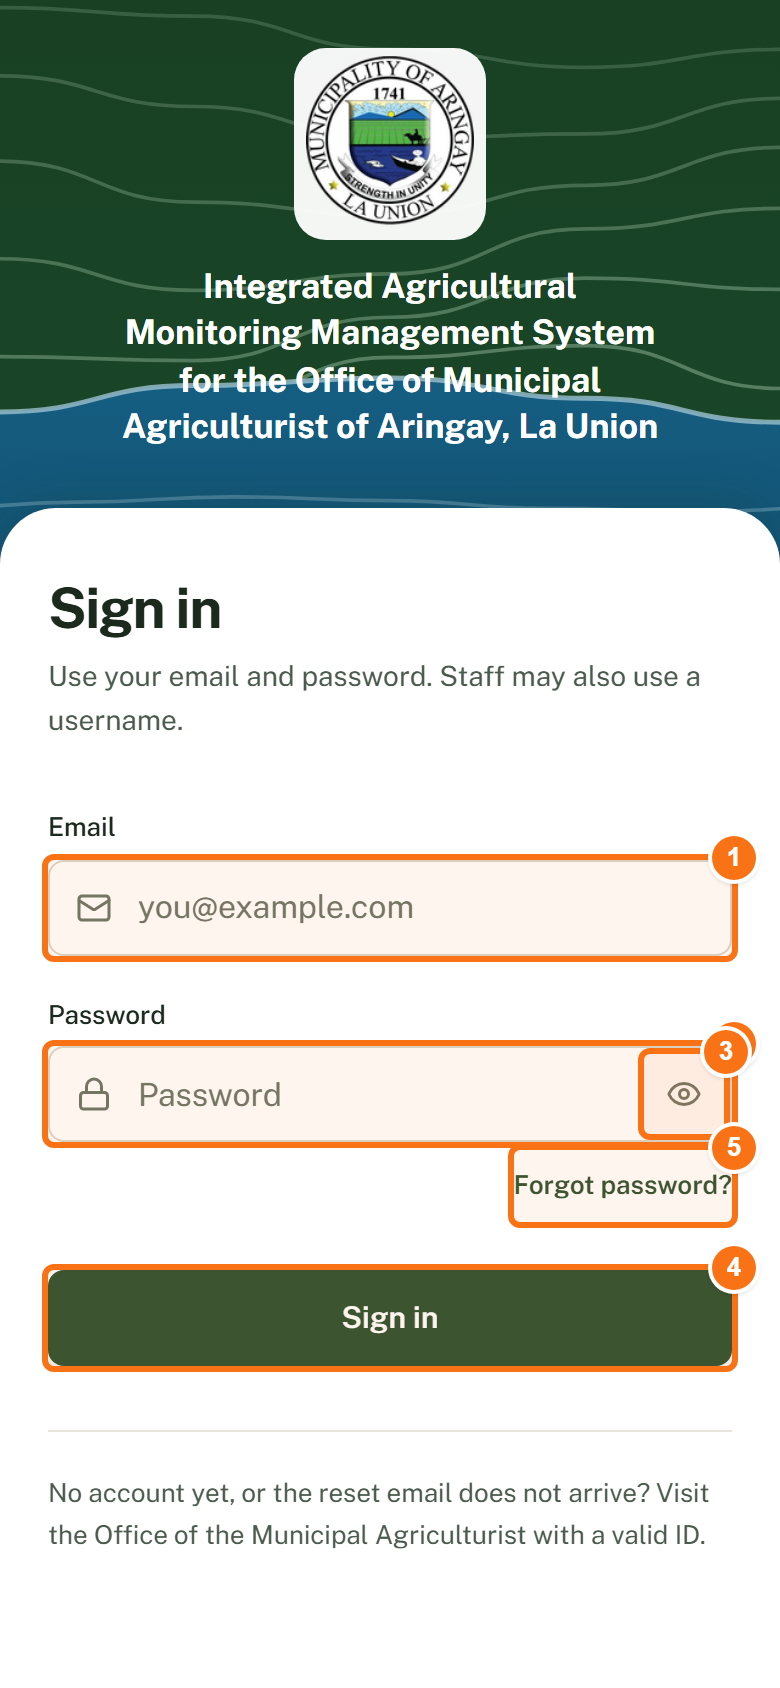
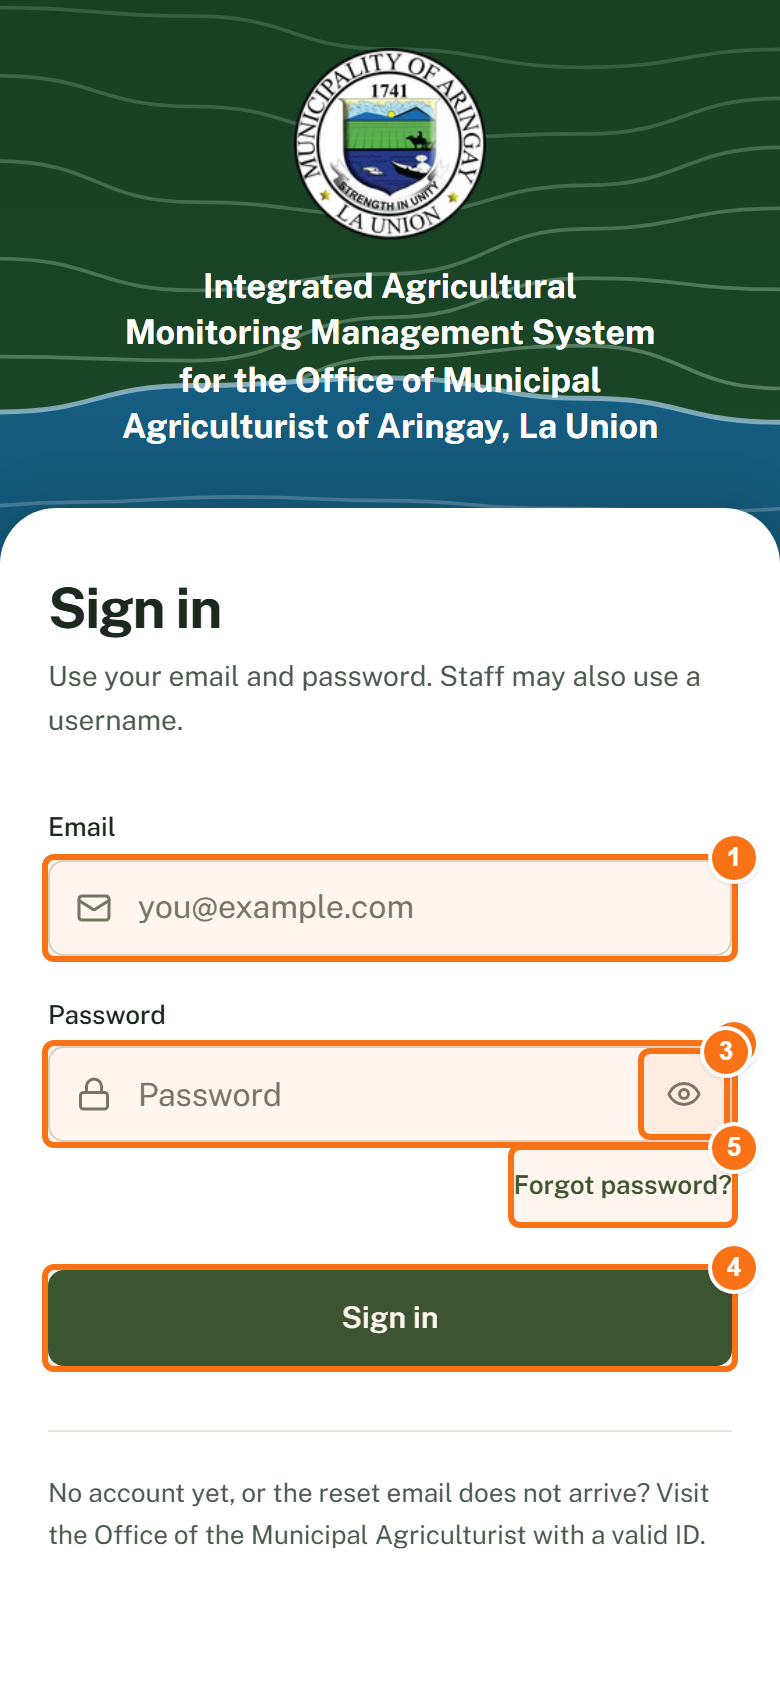
Header with account type and clock, round seal, reset page goes to sign-in
- Top bar: the account type shows under the name, and today's date and a live time fill the empty space.
- The seal shows by itself, round, with no white or coloured box, on the sign-in page and inside the system.
- Reset password: "Type it again" is now "Confirm password". After saving, on a used or expired link, and from a
  "Check your email" tab left open, the page goes to sign-in. A new endpoint checks a link without using it up.
- The two sign-in pictures in the User Manual are retaken.

Changed region(s): [[0.3692, 0.0308, 0.6462, 0.154]]

diff --git a/oma-frontend/src/pages/Auth/ResetPasswordPage.jsx b/oma-frontend/src/pages/Auth/ResetPasswordPage.jsx
@@ -1,13 +1,13 @@
-import { useEffect, useState } from 'react'
-import { Link, useLocation, useNavigate } from 'react-router-dom'
-import { Eye, EyeOff, Loader2, XCircle } from 'lucide-react'
+import { useCallback, useEffect, useState } from 'react'
+import { useLocation, useNavigate } from 'react-router-dom'
+import { Eye, EyeOff, Loader2 } from 'lucide-react'
 import api from '../../api/axiosInstance.js'
 import AuthCard from '../../components/UI/AuthCard.jsx'
 import Button from '../../components/UI/Button.jsx'
 import PasswordRequirementChecklist from '../../components/UI/PasswordRequirementChecklist.jsx'
 import { passwordMeetsRules } from '../../utils/passwordRules.js'
 import { useAuth } from '../../context/AuthContext.jsx'
-import { isDeadLink, readResetLink, requestErrorText } from './passwordReset.js'
+import { DEAD_LINK_NOTICE, PASSWORD_SAVED_KEY, isDeadLink, readResetLink, requestErrorText } from './passwordReset.js'
 
 const FIELD =
   'h-12 w-full rounded-[var(--radius-sm)] border border-border-strong px-3.5 text-[16px] focus:border-primary focus:outline-none focus:ring-2 focus:ring-primary/25'
@@ -18,16 +18,36 @@ function ResetPasswordPage() {
   const { user, logout } = useAuth()
   // Read once, then taken out of the address bar so the token does not stay in the browser's history.
   const [link] = useState(() => readResetLink(location.hash))
-  const [dead, setDead] = useState(!link)
+  const [checking, setChecking] = useState(true)
   const [password, setPassword] = useState('')
   const [confirm, setConfirm] = useState('')
   const [show, setShow] = useState(false)
   const [loading, setLoading] = useState(false)
   const [error, setError] = useState('')
 
+  // `replace`: the Back button must not return to a finished reset.
+  const goToSignIn = useCallback((notice) => {
+    try { sessionStorage.setItem('omag_login_notice', notice) } catch { /* no storage: just no note */ }
+    navigate('/login', { replace: true })
+  }, [navigate])
+
   useEffect(() => {
     if (window.location.hash) window.history.replaceState(window.history.state, '', window.location.pathname)
   }, [])
+
+  // A link that is already used (the password was saved), expired or incomplete goes straight to sign-in.
+  useEffect(() => {
+    let left = false
+    const check = link ? api.post('/accounts/reset-password/check/', link) : Promise.reject(new Error('no link'))
+    check
+      .then(() => { if (!left) setChecking(false) })
+      .catch((err) => {
+        if (left) return
+        if (!link || isDeadLink(err)) goToSignIn(DEAD_LINK_NOTICE)
+        else setChecking(false)          // the server could not be asked: show the form, saving checks again
+      })
+    return () => { left = true }
+  }, [link, goToSignIn])
 
   const save = async (e) => {
     e.preventDefault()
@@ -39,30 +59,26 @@ function ResetPasswordPage() {
     setLoading(true)
     try {
       const { data } = await api.post('/accounts/reset-password/', { ...link, new_password: password, confirm_new_password: confirm })
-      try { sessionStorage.setItem('omag_login_notice', data.detail) } catch { /* no storage: just no note */ }
       // A session left open in this browser belongs to the old password.
       if (user) await logout()
-      navigate('/login', { replace: true })
+      try { localStorage.setItem(PASSWORD_SAVED_KEY, String(Date.now())) } catch { /* other tabs just stay as they are */ }
+      goToSignIn(data.detail)
     } catch (err) {
-      if (isDeadLink(err)) setDead(true)
-      else setError(requestErrorText(err))
+      if (isDeadLink(err)) {
+        goToSignIn(DEAD_LINK_NOTICE)
+        return
+      }
+      setError(requestErrorText(err))
       setLoading(false)
     }
   }
 
-  if (dead) {
+  if (checking) {
     return (
       <AuthCard>
-        <div className="text-center">
-          <XCircle className="mx-auto mb-3 h-10 w-10 text-rose-500" aria-hidden="true" />
-          <h1 className="text-[18px] font-bold text-text-primary">This link no longer works</h1>
-          <p className="mt-2 text-[14px] leading-relaxed text-text-secondary">
-            A reset link works once, for 30 minutes. Ask for a new one.
-          </p>
-          <Button type="button" variant="primary" className="mt-5 w-full" onClick={() => navigate('/forgot-password')}>
-            Send a new link
-          </Button>
-          <Link to="/login" className="mt-4 inline-block text-[13px] font-semibold text-primary hover:underline">Back to sign in</Link>
+        <div role="status" className="flex flex-col items-center gap-3 py-4 text-center">
+          <Loader2 className="h-7 w-7 animate-spin text-primary" aria-hidden="true" />
+          <p className="text-[14px] text-text-secondary">Checking your link…</p>
         </div>
       </AuthCard>
     )
@@ -100,7 +116,7 @@ function ResetPasswordPage() {
           <PasswordRequirementChecklist password={password} />
         </div>
 
-        <label htmlFor="reset-confirm" className="mb-1.5 mt-4 block text-[13px] font-medium text-text-primary">Type it again</label>
+        <label htmlFor="reset-confirm" className="mb-1.5 mt-4 block text-[13px] font-medium text-text-primary">Confirm password</label>
         <input
           id="reset-confirm"
           type={show ? 'text' : 'password'}

diff --git a/oma-frontend/src/components/Layout/Navbar.jsx b/oma-frontend/src/components/Layout/Navbar.jsx
@@ -2,24 +2,23 @@ import { useState, useRef, useEffect } from 'react'
 import { ChevronDown, CircleHelp, History, LogOut, Menu, BookOpen } from 'lucide-react'
 import { Link, useNavigate } from 'react-router-dom'
 import { useAuth } from '../../context/AuthContext.jsx'
-import { formatDate } from '../../utils/dateFormat.js'
 import ConfirmDialog from '../UI/ConfirmDialog.jsx'
 import NotificationBell from './NotificationBell.jsx'
+import HeaderClock from './HeaderClock.jsx'
+import { accountTypeLabel } from './headerAccount.js'
 
 
 function Navbar({ onToggleSidebar, isCollapsed }) {
   const navigate = useNavigate()
-  const { user, logout, isFisherfolk, isFarmer, isOrg, orgType } = useAuth()
+  const { user, logout, isFisherfolk, isFarmer, isOrg } = useAuth()
   const ownAccount = isFisherfolk || isFarmer || isOrg   // citizen accounts that use the Admin pages for their own records
   // Fisherfolk accounts have their own profile/help pages (staff /profile and /help are staff-only). The User Manual is /manual for everyone.
   const profilePath = ownAccount ? '/my-profile' : '/profile'
   const helpPath = ownAccount ? '/my-help' : '/help'
-  const roleLabel = isFisherfolk ? 'Fisherfolk' : isFarmer ? 'Farmer'
-    : isOrg ? (orgType === 'FISHERFOLK_ORG' ? 'Fisherfolk Organization' : 'Farmers Organization') : user?.role?.toLowerCase()
+  const roleLabel = accountTypeLabel(user)
   const [dropdownOpen, setDropdownOpen] = useState(false)
   const [showLogoutConfirm, setShowLogoutConfirm] = useState(false)
   const dropdownRef = useRef(null)
-  const today = new Date()
 
   useEffect(() => {
     function handleClickOutside(e) {
@@ -45,7 +44,7 @@ function Navbar({ onToggleSidebar, isCollapsed }) {
         className={`h-14 bg-white border-b border-border shadow-sm fixed top-0 right-0 z-30 flex items-center justify-between px-4 left-0 ${isCollapsed ? 'md:left-16' : 'md:left-[248px]'}`}
         style={{ transition: 'left 300ms ease-in-out' }}
       >
-        {/* Left: hamburger */}
+        {/* Left: hamburger, then the date and time */}
         <div className="flex min-w-0 items-center gap-3">
           <button
             className="press-scale shrink-0 w-9 h-9 flex items-center justify-center rounded-lg text-text-primary hover:bg-surface-2 transition-colors"
@@ -55,6 +54,7 @@ function Navbar({ onToggleSidebar, isCollapsed }) {
           >
             <Menu size={20} aria-hidden="true" />
           </button>
+          <HeaderClock />
         </div>
 
         {/* Right: notifications + user dropdown */}
@@ -81,7 +81,7 @@ function Navbar({ onToggleSidebar, isCollapsed }) {
               <p className="text-[13px] font-medium text-text-primary leading-tight">
                 {user?.full_name || user?.email || 'User'}
               </p>
-              <p className="text-[11px] text-text-muted leading-tight">{formatDate(today)}</p>
+              <p className="text-[11px] text-text-muted leading-tight">{roleLabel}</p>
             </div>
           </Link>
           <button
@@ -105,7 +105,7 @@ function Navbar({ onToggleSidebar, isCollapsed }) {
                 </div>
                 <div className="min-w-0">
                   <p className="text-[13px] font-medium text-text-primary leading-tight truncate">{user?.full_name || user?.email}</p>
-                  <p className="text-[11px] text-text-muted leading-tight capitalize">{roleLabel}</p>
+                  <p className="text-[11px] text-text-muted leading-tight">{roleLabel}</p>
                 </div>
               </div>
 

diff --git a/oma-frontend/src/pages/Auth/ForgotPasswordPage.jsx b/oma-frontend/src/pages/Auth/ForgotPasswordPage.jsx
@@ -1,20 +1,33 @@
-import { useState } from 'react'
-import { Link, useLocation } from 'react-router-dom'
+import { useEffect, useState } from 'react'
+import { Link, useLocation, useNavigate } from 'react-router-dom'
 import { ArrowLeft, Loader2, MailCheck } from 'lucide-react'
 import api from '../../api/axiosInstance.js'
 import AuthCard from '../../components/UI/AuthCard.jsx'
 import Button from '../../components/UI/Button.jsx'
 import EmailInput from '../../components/UI/EmailInput.jsx'
-import { requestErrorText } from './passwordReset.js'
+import { PASSWORD_SAVED_KEY, requestErrorText } from './passwordReset.js'
 
 const BACK = 'mt-5 flex min-h-10 items-center justify-center gap-1.5 text-[13px] font-semibold text-primary hover:underline'
 
 function ForgotPasswordPage() {
   const location = useLocation()
+  const navigate = useNavigate()
   const [email, setEmail] = useState(location.state?.email || '')
   const [sentTo, setSentTo] = useState('')
   const [loading, setLoading] = useState(false)
   const [error, setError] = useState('')
+
+  // The e-mailed link usually opens in another tab. Once the new password is saved there, this tab moves to sign-in too.
+  useEffect(() => {
+    if (!sentTo) return undefined
+    const onSaved = (event) => {
+      if (event.key !== PASSWORD_SAVED_KEY || !event.newValue) return
+      try { sessionStorage.setItem('omag_login_notice', 'Your password has been changed. Sign in with your new password.') } catch { /* no note */ }
+      navigate('/login', { replace: true })
+    }
+    window.addEventListener('storage', onSaved)
+    return () => window.removeEventListener('storage', onSaved)
+  }, [sentTo, navigate])
 
   const send = async (e) => {
     e.preventDefault()

diff --git a/oma-frontend/src/components/Layout/StaffPhoneShell.jsx b/oma-frontend/src/components/Layout/StaffPhoneShell.jsx
@@ -3,6 +3,7 @@ import { ChevronRight, CircleHelp, ClipboardList, Ellipsis, BookOpen, HandHeart,
 import { useLocation, useNavigate } from 'react-router-dom'
 import { useAuth } from '../../context/AuthContext.jsx'
 import omagLogo from '../../assets/LOGO OMAg-small.png'
+import { accountTypeLabel } from './headerAccount.js'
 import ConfirmDialog from '../UI/ConfirmDialog.jsx'
 import NotificationBell from './NotificationBell.jsx'
 import { ADMIN_GROUP, DASHBOARD_ITEM, DISASTER_GROUP, GROUPS, REPORTS_GROUP, isItemActive } from './Sidebar.jsx'
@@ -104,7 +105,7 @@ function AccountMenu({ onLogout }) {
   const { user } = useAuth()
   const [open, setOpen] = useState(false)
   const initial = (user?.full_name || user?.email || 'U').charAt(0).toUpperCase()
-  const role = user?.role === 'ADMIN' ? 'Administrator' : 'Focal Person'
+  const role = accountTypeLabel(user)
 
   useEffect(() => {
     if (!open) return undefined
@@ -195,9 +196,7 @@ export default function StaffPhoneShell({ title, action, children }) {
     <div className="min-h-screen bg-white">
       <header className="sticky top-0 z-30 border-b border-border bg-white">
         <div className="flex h-14 items-center gap-2.5 px-4">
-          <span className="flex h-11 w-11 shrink-0 items-center justify-center overflow-hidden rounded-[10px] bg-nav-logo">
-            <img src={omagLogo} alt="OMAg Aringay seal" className="h-full w-full object-cover" />
-          </span>
+          <img src={omagLogo} alt="OMAg Aringay seal" className="h-11 w-11 shrink-0 object-contain" />
           {title ? (
             <h1 className="min-w-0 flex-1 truncate font-display text-[16px] font-semibold tracking-tight text-text-primary">{title}</h1>
           ) : (

diff --git a/oma-frontend/src/pages/Login/LoginPage.jsx b/oma-frontend/src/pages/Login/LoginPage.jsx
@@ -95,7 +95,7 @@ function LoginPage() {
         <LoginArt className="absolute inset-0 h-full w-full" />
         <div className="relative z-10 flex h-full min-h-dvh flex-col px-12 py-12 lg:px-16">
           <div className="my-auto max-w-lg">
-            <img src={logo} alt="OMAg Aringay seal" className="login-rise h-32 w-32 rounded-2xl bg-white/95 object-contain p-1.5 lg:h-36 lg:w-36" style={{ "--i": 0 }} />
+            <img src={logo} alt="OMAg Aringay seal" className="login-rise h-32 w-32 object-contain lg:h-36 lg:w-36" style={{ "--i": 0 }} />
             <p className="login-rise mt-8 text-balance text-[30px] font-bold leading-[1.18] tracking-tight text-white lg:text-[38px]" style={{ "--i": 1 }}>
               {SYSTEM_TITLE_READABLE}
             </p>
@@ -109,7 +109,7 @@ function LoginPage() {
         <header className="relative flex-none overflow-hidden split:hidden">
           <LoginArt variant="banner" className="absolute inset-0 h-full w-full" />
           <div className="relative z-10 flex flex-col items-center px-6 pb-14 pt-[max(1.5rem,env(safe-area-inset-top))] text-center short:flex-row short:gap-3 short:pb-10 short:text-left">
-            <img src={logo} alt="OMAg Aringay seal" className="h-24 w-24 flex-none rounded-2xl bg-white/95 object-contain p-1 short:h-14 short:w-14" />
+            <img src={logo} alt="OMAg Aringay seal" className="h-24 w-24 flex-none object-contain short:h-14 short:w-14" />
             <p className="mt-3 max-w-[22rem] text-balance text-[17px] font-bold leading-snug text-white short:mt-0 short:max-w-none short:text-[13px]">
               {SYSTEM_TITLE_READABLE}
             </p>

diff --git a/oma-frontend/src/components/Layout/Sidebar.jsx b/oma-frontend/src/components/Layout/Sidebar.jsx
@@ -377,13 +377,11 @@ function Sidebar({ isOpen, onClose, isCollapsed }) {
             <img
               src={logo}
               alt="OMAg Aringay seal"
-              className="w-12 h-12 object-contain mx-auto rounded-[10px]"
+              className="w-12 h-12 object-contain mx-auto"
             />
           ) : (
             <div className="flex items-center gap-3 min-w-0">
-              <span className="w-[68px] h-[68px] flex-shrink-0 rounded-[14px] bg-nav-logo overflow-hidden flex items-center justify-center">
-                <img src={logo} alt="OMAg Aringay seal" className="w-full h-full object-cover" />
-              </span>
+              <img src={logo} alt="OMAg Aringay seal" className="w-[68px] h-[68px] flex-shrink-0 object-contain" />
               <p className="text-[13px] font-semibold text-nav-item-on leading-snug">
                 Aringay,
                 <br />

diff --git a/oma-frontend/src/components/Layout/headerAccount.js b/oma-frontend/src/components/Layout/headerAccount.js
@@ -1,0 +1,22 @@
+// The pure parts of the top bar's account area.
+import { formatDateWithWeekday, formatTime } from '../../utils/dateFormat.js'
+
+const CITIZEN_TYPES = {
+  FARMER: 'Farmer',
+  FISHERFOLK: 'Fisherfolk',
+  FARMERS_ORG: 'Farmers Organization',
+  FISHERFOLK_ORG: 'Fisherfolk Organization',
+}
+
+// The type of account, shown under the person's name.
+export function accountTypeLabel(user) {
+  if (!user) return ''
+  if (user.role === 'ADMIN') return 'Admin'
+  if (user.role === 'EVALUATOR') return 'Focal Person'
+  return CITIZEN_TYPES[user.linked_record_type] || 'Account'
+}
+
+// "Thursday, Nov 26, 2026 · 11:20 PM". `timeZone` is for tests; the page shows the reader's own.
+export function headerDateTime(now, { timeZone } = {}) {
+  return `${formatDateWithWeekday(now, { timeZone })} · ${formatTime(now, { timeZone })}`
+}

diff --git a/oma-frontend/src/pages/Citizen/FarmerChrome.jsx b/oma-frontend/src/pages/Citizen/FarmerChrome.jsx
@@ -62,14 +62,7 @@ function useMenuState() {
 }
 
 function Seal({ size }) {
-  return (
-    <span
-      className="flex shrink-0 items-center justify-center overflow-hidden bg-white/[0.16]"
-      style={{ width: size, height: size, borderRadius: size >= 33 ? 9 : 8 }}
-    >
-      <img src={omagLogo} alt="OMAg" className="h-full w-full object-cover" />
-    </span>
-  )
+  return <img src={omagLogo} alt="OMAg Aringay seal" className="shrink-0 object-contain" style={{ width: size, height: size }} />
 }
 
 // ─── Phone ────────────────────────────────────────────────────────────────

diff --git a/oma-frontend/src/components/Layout/HeaderClock.jsx b/oma-frontend/src/components/Layout/HeaderClock.jsx
@@ -1,0 +1,18 @@
+import { useEffect, useState } from 'react'
+import { headerDateTime } from './headerAccount.js'
+
+// Today's date and the time, in the top bar. Its own component, so the clock's updates redraw only this.
+export default function HeaderClock() {
+  const [now, setNow] = useState(() => new Date())
+
+  useEffect(() => {
+    const timer = setInterval(() => setNow(new Date()), 5000)
+    return () => clearInterval(timer)
+  }, [])
+
+  return (
+    <time dateTime={now.toISOString()} className="min-w-0 truncate text-[13px] font-medium tabular-nums text-text-secondary">
+      {headerDateTime(now)}
+    </time>
+  )
+}

diff --git a/oma-frontend/src/pages/Citizen/CitizenHomePage.jsx b/oma-frontend/src/pages/Citizen/CitizenHomePage.jsx
@@ -27,7 +27,7 @@ export default function CitizenHomePage() {
     <div className="min-h-screen bg-cz-page">
       <header className="flex items-center justify-between border-b-[0.5px] border-cz-border bg-cz-surface px-4 py-3 sm:px-6">
         <div className="flex items-center gap-3">
-          <img src={logo} alt="OMAg Aringay seal" className="h-12 w-12 shrink-0 rounded-md object-contain ring-1 ring-cz-border" />
+          <img src={logo} alt="OMAg Aringay seal" className="h-12 w-12 shrink-0 object-contain" />
         </div>
         <button
           type="button"

diff --git a/oma-frontend/src/pages/Auth/passwordReset.js b/oma-frontend/src/pages/Auth/passwordReset.js
@@ -20,4 +20,11 @@ export function requestErrorText(error) {
   )
 }
 
+// Shown on the sign-in page after a reset link that is used up, expired or incomplete.
+export const DEAD_LINK_NOTICE =
+  'That reset link was already used or has expired. Sign in, or choose "Forgot password?" to get a new one.'
+
+// Set in localStorage when a new password is saved, so a "Check your email" tab left open can move on to sign-in.
+export const PASSWORD_SAVED_KEY = 'omag_password_saved'
+
 export const isDeadLink = (error) => error?.response?.data?.code === 'invalid_link'

diff --git a/oma-frontend/src/pages/Citizen/citizenUI.jsx b/oma-frontend/src/pages/Citizen/citizenUI.jsx
@@ -222,7 +222,7 @@ function StaticHeaderBar({ theme }) {
   const { onProfile } = useContext(CitizenNavContext)
   return (
     <div className="flex items-center justify-between gap-2">
-      <img src={omagLogo} alt="OMAg Aringay seal" className="h-10 w-10 shrink-0 rounded-[8px] object-cover" />
+      <img src={omagLogo} alt="OMAg Aringay seal" className="h-10 w-10 shrink-0 object-contain" />
       <div className="flex shrink-0 items-center gap-1">
         <NotificationBell />
         <button
